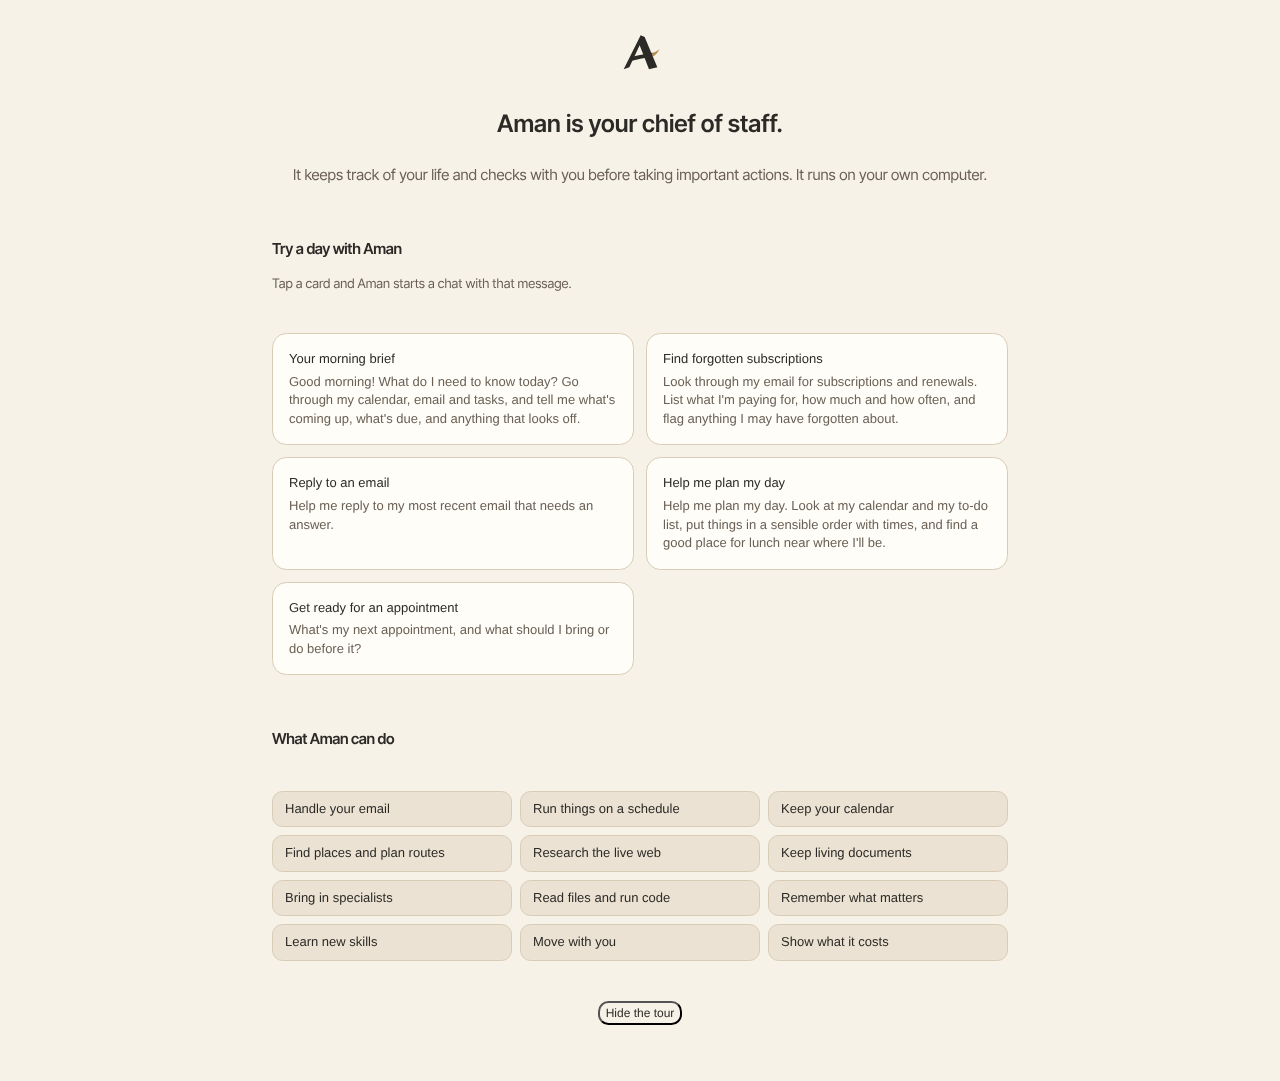
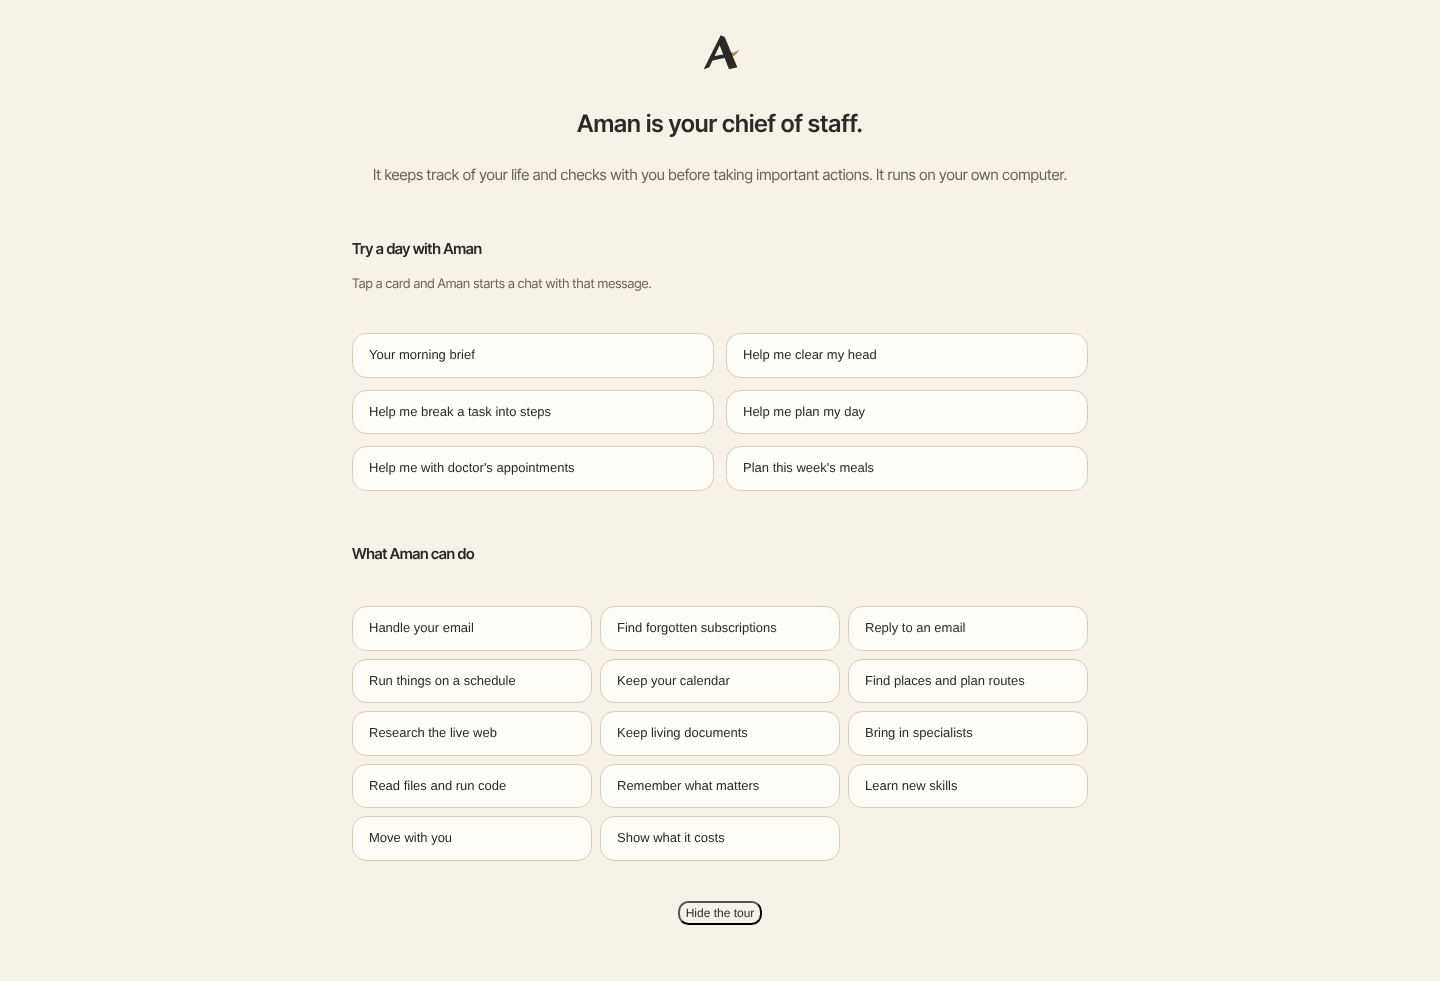
Show only the label on tour cards and rework the day cards
The day cards now show their label only. The full prompt is the
button's accessible description, so it is still read aloud but not
printed on screen. Tapping a card still sends the full prompt.

The day cards are now: your morning brief, help me clear my head, help
me break a task into steps, help me plan my day, help me with doctor's
appointments (calendar), and plan this week's meals. Find forgotten
subscriptions and reply to an email move to "What Aman can do" with
their prompts and email requirement unchanged.

The "What Aman can do" items share the day cards' look, with a pointer
cursor and hover and focus states, so both sections read as clickable.

The desktop screenshots are now taken at 1440x900, and the after-
screenshots are regenerated from that run.

diff --git a/packages/trueforge-ui/src/components/AmanTour.tsx b/packages/trueforge-ui/src/components/AmanTour.tsx
@@ -1,6 +1,6 @@
 'use client';
 
-import type { ReactNode } from 'react';
+import { useId, type ReactNode } from 'react';
 
 import { WelcomeScreen } from '../atoms/WelcomeScreen.js';
 import { Button } from '../atoms/primitives/Button.js';
@@ -35,6 +35,45 @@ export const TRY_A_DAY_PROMPTS: readonly TourPrompt[] = [
       "Good morning! What do I need to know today? Go through my calendar, email and tasks, and tell me what's coming up, what's due, and anything that looks off.",
   },
   {
+    key: 'clear-head',
+    label: 'Help me clear my head',
+    prompt:
+      "I have too much going on. Ask me what's on my mind, then sort it into today, this week, and later, and keep that list for me.",
+  },
+  {
+    key: 'break-task',
+    label: 'Help me break a task into steps',
+    prompt:
+      'Help me break a task into steps. Ask me what the task is, then split it into small steps I can each do in about 10 minutes, and keep the list so we can tick them off together.',
+  },
+  {
+    key: 'plan-day',
+    label: 'Help me plan my day',
+    prompt:
+      "Help me plan my day. Look at my calendar and my to-do list, put things in a sensible order with times, and find a good place for lunch near where I'll be.",
+  },
+  {
+    key: 'appointment',
+    label: "Help me with doctor's appointments",
+    prompt:
+      "Help me with my doctor's appointments. Find any coming up in my calendar and email, tell me what to bring and what to ask, and remind me of anything I still need to book.",
+    needs: 'calendar',
+  },
+  {
+    key: 'meals',
+    label: "Plan this week's meals",
+    prompt: "Plan this week's meals around what we already have, and make the shopping list.",
+  },
+];
+
+export const CAPABILITY_PROMPTS: readonly TourPrompt[] = [
+  {
+    key: 'email',
+    label: 'Handle your email',
+    prompt: 'Go through my unread email and tell me what needs a reply first.',
+    needs: 'email',
+  },
+  {
     key: 'subscriptions',
     label: 'Find forgotten subscriptions',
     prompt:
@@ -45,27 +84,6 @@ export const TRY_A_DAY_PROMPTS: readonly TourPrompt[] = [
     key: 'reply',
     label: 'Reply to an email',
     prompt: 'Help me reply to my most recent email that needs an answer.',
-    needs: 'email',
-  },
-  {
-    key: 'plan-day',
-    label: 'Help me plan my day',
-    prompt:
-      "Help me plan my day. Look at my calendar and my to-do list, put things in a sensible order with times, and find a good place for lunch near where I'll be.",
-  },
-  {
-    key: 'appointment',
-    label: 'Get ready for an appointment',
-    prompt: "What's my next appointment, and what should I bring or do before it?",
-    needs: 'calendar',
-  },
-];
-
-export const CAPABILITY_PROMPTS: readonly TourPrompt[] = [
-  {
-    key: 'email',
-    label: 'Handle your email',
-    prompt: 'Go through my unread email and tell me what needs a reply first.',
     needs: 'email',
   },
   { key: 'schedule', label: 'Run things on a schedule', prompt: 'Every weekday at 7:30, send me my morning brief.' },
@@ -121,6 +139,38 @@ export function visibleTourPrompts(prompts: readonly TourPrompt[], capabilities:
   return prompts.filter(item => item.needs === undefined || capabilities[item.needs]);
 }
 
+const TOUR_BUTTON_CLASS =
+  'flex h-full w-full cursor-pointer items-center rounded-xl border border-border bg-card-bg px-4 py-3 text-left text-sm text-text-primary transition-colors hover:border-primary-button-bg hover:bg-ghost-button-hover focus-visible:outline-none focus-visible:ring-3 focus-visible:ring-focus-ring/40 disabled:cursor-not-allowed disabled:opacity-60';
+
+/** Shows the label only; the full prompt stays hidden and is the button's accessible description. */
+function TourPromptButton({
+  item,
+  disabled,
+  onSend,
+}: {
+  item: TourPrompt;
+  disabled: boolean;
+  onSend: (prompt: string) => void;
+}) {
+  const promptId = useId();
+  return (
+    <li>
+      <button
+        type="button"
+        disabled={disabled}
+        aria-describedby={promptId}
+        onClick={() => onSend(item.prompt)}
+        className={TOUR_BUTTON_CLASS}
+      >
+        {item.label}
+      </button>
+      <span id={promptId} hidden>
+        {item.prompt}
+      </span>
+    </li>
+  );
+}
+
 export type AmanTourProps = {
   capabilities: TourCapabilities;
   /** Sends the prompt through the composer, which starts the chat when it is the first message. */
@@ -153,17 +203,7 @@ export function AmanTour({ capabilities, onSend, canSend, onHide, setup }: AmanT
         </div>
         <ul className="grid list-none grid-cols-1 gap-3 p-0 sm:grid-cols-2">
           {dayPrompts.map(item => (
-            <li key={item.key}>
-              <button
-                type="button"
-                disabled={!canSend}
-                onClick={() => onSend(item.prompt)}
-                className="flex h-full w-full flex-col items-start gap-1 rounded-xl border border-border bg-card-bg p-4 text-left transition-colors hover:border-primary-button-bg focus-visible:outline-none focus-visible:ring-3 focus-visible:ring-focus-ring/40 disabled:cursor-not-allowed disabled:opacity-60"
-              >
-                <span className="text-sm font-medium text-text-primary">{item.label}</span>
-                <span className="text-sm text-text-secondary">{item.prompt}</span>
-              </button>
-            </li>
+            <TourPromptButton key={item.key} item={item} disabled={!canSend} onSend={onSend} />
           ))}
         </ul>
       </section>
@@ -173,16 +213,7 @@ export function AmanTour({ capabilities, onSend, canSend, onHide, setup }: AmanT
         </h2>
         <ul className="grid list-none grid-cols-1 gap-2 p-0 sm:grid-cols-2 md:grid-cols-3">
           {capabilityPrompts.map(item => (
-            <li key={item.key}>
-              <button
-                type="button"
-                disabled={!canSend}
-                onClick={() => onSend(item.prompt)}
-                className="flex h-full w-full items-center rounded-lg border border-border bg-secondary-bg px-3 py-2 text-left text-sm text-text-primary transition-colors hover:border-primary-button-bg focus-visible:outline-none focus-visible:ring-3 focus-visible:ring-focus-ring/40 disabled:cursor-not-allowed disabled:opacity-60"
-              >
-                {item.label}
-              </button>
-            </li>
+            <TourPromptButton key={item.key} item={item} disabled={!canSend} onSend={onSend} />
           ))}
         </ul>
       </section>

diff --git a/packages/trueforge-ui/test/components/AmanTour.test.tsx b/packages/trueforge-ui/test/components/AmanTour.test.tsx
@@ -62,11 +62,13 @@ describe('AmanTour', () => {
     expect(onSend).toHaveBeenCalledTimes(TRY_A_DAY_PROMPTS.length);
   });
 
-  it('shows the prompt text on each day card so people see what will be sent', () => {
+  it('shows only the label on each card and gives the full prompt as its accessible description', () => {
     renderTour();
 
-    for (const item of TRY_A_DAY_PROMPTS) {
-      expect(screen.getByRole('button', { name: new RegExp(item.label) })).toHaveTextContent(item.prompt);
+    for (const item of [...TRY_A_DAY_PROMPTS, ...CAPABILITY_PROMPTS]) {
+      const button = screen.getByRole('button', { name: item.label });
+      expect(button).toHaveAccessibleDescription(item.prompt);
+      expect(screen.queryByText(item.prompt)).not.toBeVisible();
     }
   });
 
@@ -84,10 +86,10 @@ describe('AmanTour', () => {
     renderTour({ capabilities: NONE });
     const days = within(screen.getByRole('region', { name: 'Try a day with Aman' }));
 
-    expect(days.queryByRole('button', { name: /Find forgotten subscriptions/ })).not.toBeInTheDocument();
-    expect(days.queryByRole('button', { name: /Reply to an email/ })).not.toBeInTheDocument();
-    expect(days.queryByRole('button', { name: /Get ready for an appointment/ })).not.toBeInTheDocument();
+    expect(days.queryByRole('button', { name: /Help me with doctor's appointments/ })).not.toBeInTheDocument();
     expect(screen.getByRole('button', { name: /Your morning brief/ })).toBeInTheDocument();
+    expect(screen.queryByRole('button', { name: 'Find forgotten subscriptions' })).not.toBeInTheDocument();
+    expect(screen.queryByRole('button', { name: 'Reply to an email' })).not.toBeInTheDocument();
     expect(screen.queryByRole('button', { name: 'Handle your email' })).not.toBeInTheDocument();
     expect(screen.queryByRole('button', { name: 'Keep your calendar' })).not.toBeInTheDocument();
     expect(screen.queryByRole('button', { name: 'Read files and run code' })).not.toBeInTheDocument();
@@ -99,9 +101,10 @@ describe('AmanTour', () => {
     renderTour({ capabilities: { ...NONE, email: true } });
 
     expect(screen.getByRole('button', { name: 'Handle your email' })).toBeInTheDocument();
-    expect(screen.getByRole('button', { name: /Find forgotten subscriptions/ })).toBeInTheDocument();
+    expect(screen.getByRole('button', { name: 'Find forgotten subscriptions' })).toBeInTheDocument();
+    expect(screen.getByRole('button', { name: 'Reply to an email' })).toBeInTheDocument();
     expect(screen.queryByRole('button', { name: 'Keep your calendar' })).not.toBeInTheDocument();
-    expect(screen.queryByRole('button', { name: /Get ready for an appointment/ })).not.toBeInTheDocument();
+    expect(screen.queryByRole('button', { name: /Help me with doctor's appointments/ })).not.toBeInTheDocument();
   });
 
   it('turns the buttons off and says why when no model is set', () => {
@@ -126,6 +129,6 @@ describe('visibleTourPrompts', () => {
   it('keeps the prompts that need nothing, whatever the capabilities', () => {
     const visible = visibleTourPrompts(TRY_A_DAY_PROMPTS, NONE);
 
-    expect(visible.map(item => item.key)).toEqual(['brief', 'plan-day']);
+    expect(visible.map(item => item.key)).toEqual(['brief', 'clear-head', 'break-task', 'plan-day', 'meals']);
   });
 });

diff --git a/packages/trueforge-ui/test/components/AmanWelcome.test.tsx b/packages/trueforge-ui/test/components/AmanWelcome.test.tsx
@@ -136,7 +136,7 @@ describe('AmanWelcome on an ordinary new chat', () => {
     renderWelcome({ setup: { modelName: 'local/llama', hasChatted: false, firstRunGuide: notDismissed } });
 
     expect(await screen.findByRole('button', { name: /Find forgotten subscriptions/ })).toBeInTheDocument();
-    expect(screen.getByRole('button', { name: /Get ready for an appointment/ })).toBeInTheDocument();
+    expect(screen.getByRole('button', { name: /Help me with doctor's appointments/ })).toBeInTheDocument();
     expect(screen.getByRole('button', { name: 'Keep your calendar' })).toBeInTheDocument();
     expect(screen.getByRole('button', { name: 'Read files and run code' })).toBeInTheDocument();
   });

diff --git a/packages/frontend/tests/firstRunGuide.browser.test.ts b/packages/frontend/tests/firstRunGuide.browser.test.ts
@@ -31,7 +31,7 @@ function findChromiumExecutable(): string {
 
 const RENDER_TIMEOUT_MS = 45_000;
 const VIEWPORTS = [
-  { name: 'desktop', width: 1280, height: 800 },
+  { name: 'desktop', width: 1440, height: 900 },
   { name: 'phone', width: 390, height: 844 },
 ] as const;
 const THEMES = ['light', 'dark'] as const;
